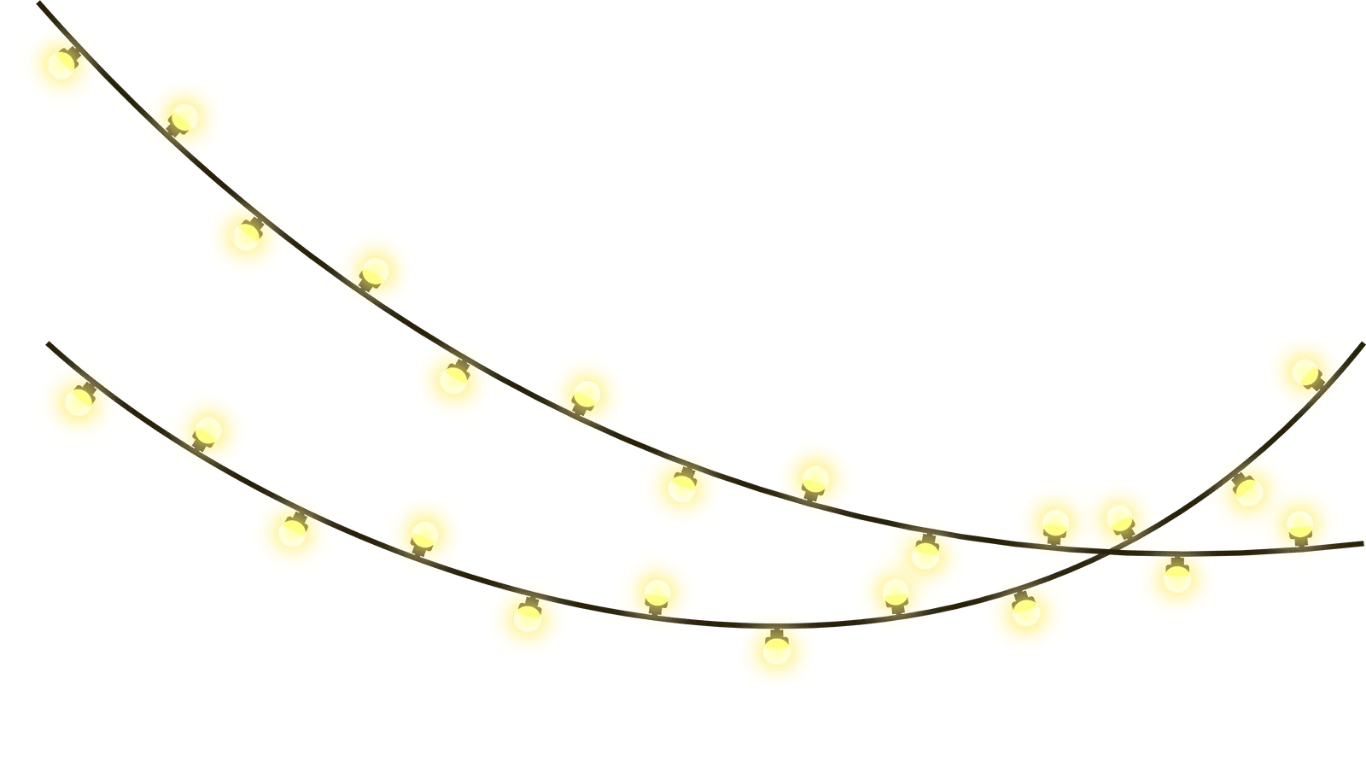
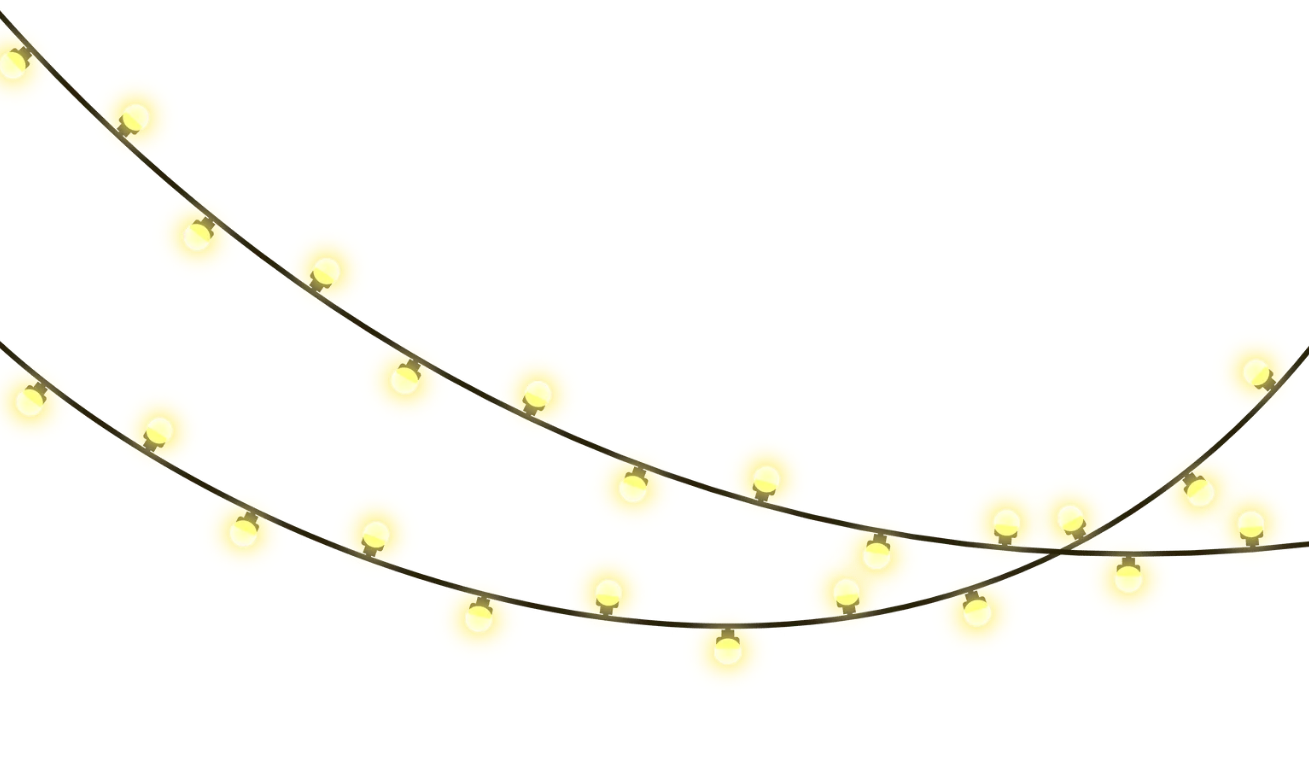
feat: sección itinerario con fondo ovalado y luces en Oliva

diff --git a/app/components/oliva/InvitationOliva.tsx b/app/components/oliva/InvitationOliva.tsx
@@ -44,10 +44,10 @@ const HORA = "4:00 PM";
 const WHATSAPP = "51993092110";
 
 const ITINERARIO = [
-  { file: "icono-anillos.png", hora: "4:00pm", nombre: "Ceremonia", Icon: Sparkles },
-  { file: "icono-copas.png", hora: "4:30pm", nombre: "Brindis", Icon: Wine },
-  { file: "icono-plato.png", hora: "5:00pm", nombre: "Hora de la comida", Icon: UtensilsCrossed },
-  { file: "icono-baile.png", hora: "6:00pm", nombre: "Baile", Icon: Music },
+  { file: "icono-anillos.png", hora: "4:00PM", nombre: "Ceremonia", Icon: Sparkles },
+  { file: "icono-copas.png", hora: "4:30PM", nombre: "Brindis", Icon: Wine },
+  { file: "icono-plato.png", hora: "5:00PM", nombre: "Hora de la comida", Icon: UtensilsCrossed },
+  { file: "icono-baile.png", hora: "6:00PM", nombre: "Baile", Icon: Music },
 ];
 
 const COLORES = [
@@ -427,127 +427,131 @@ function InvitadoSection({ demo }: { demo: boolean }) {
   );
 }
 
-// ─── 3. Pasto + separador de flores ──────────────────────────────────────────
+// ─── 3. Pasto (tres franjas seguidas) ────────────────────────────────────────
 
 function GrassSection({ photosPath }: { photosPath: string }) {
   return (
-    <section aria-hidden="true" style={{ position: "relative", background: "#3c6028" }}>
-      <GardenImg photosPath={photosPath} file="fondo-grass.png" style={{ width: "100%" }} />
-      <GardenImg photosPath={photosPath} file="fondo-grass.png" style={{ width: "100%" }} />
-      {/* El separador va sobre la unión de los dos pastos. */}
-      <GardenImg
-        photosPath={photosPath}
-        file="separador-flores.png"
-        style={{
-          position: "absolute",
-          left: 0,
-          top: "50%",
-          transform: "translateY(-50%)",
-          width: "100%",
-          zIndex: 1,
-        }}
-      />
+    <section aria-hidden="true" style={{ background: "#3c6028" }}>
+      {/* La última fila de fondo-grass.png es clara (#a1b398) y marcaba una
+          línea en cada unión: se recortan 2px de cada franja. */}
+      {[0, 1, 2].map((i) => (
+        <div key={i} style={{ overflow: "hidden" }}>
+          <GardenImg
+            photosPath={photosPath}
+            file="fondo-grass.png"
+            style={{ width: "100%", marginBottom: -2 }}
+          />
+        </div>
+      ))}
     </section>
   );
 }
 
 // ─── 4. Itinerario ───────────────────────────────────────────────────────────
+// itinerario-fondo-luces.png (425×873) es un óvalo beige con la guirnalda ya
+// dibujada. El óvalo va del ~12% al 100% del alto y las luces lo cruzan entre
+// el 11% y el 24%, por eso el título va debajo de ellas. Los porcentajes del
+// título y de la lista están medidos sobre ese PNG: si se cambia, reajustar.
 
 function ItinerarioSection({ photosPath }: { photosPath: string }) {
   return (
-    <section style={{ position: "relative", background: BG, padding: "8px 24px 56px" }}>
-      {/* Borde ondulado sobre el pasto. */}
-      <svg
-        viewBox="0 0 1200 60"
-        preserveAspectRatio="none"
-        aria-hidden="true"
-        style={{
-          position: "absolute",
-          left: 0,
-          top: -39,
-          width: "100%",
-          height: 40,
-          display: "block",
-        }}
-      >
-        <path
-          d="M0,30 Q150,0 300,30 Q450,60 600,30 Q750,0 900,30 Q1050,60 1200,30 L1200,60 L0,60 Z"
-          fill={BG}
-        />
-      </svg>
-
-      <Reveal style={{ textAlign: "center" }}>
-        <GardenImg
-          photosPath={photosPath}
-          file="itinerario-luces.png"
-          style={{ width: "80%", maxWidth: 320, margin: "0 auto" }}
-        />
-        <h2
-          style={{
-            fontFamily: TITLE_FONT,
-            fontSize: "clamp(32px, 9vw, 48px)",
-            color: GREEN_DARK,
-            fontWeight: "normal",
-            margin: "4px 0 20px",
-          }}
-        >
-          Itinerario
-        </h2>
-      </Reveal>
-
-      <ol style={{ listStyle: "none", margin: "0 auto", padding: 0, maxWidth: 340 }}>
-        {ITINERARIO.map(({ file, hora, nombre, Icon }, i) => (
-          <li
-            key={file}
+    <section style={{ background: GREEN_DARK, padding: "32px 0 48px" }}>
+      <Reveal>
+        <div style={{ position: "relative", width: "90%", maxWidth: 380, margin: "0 auto" }}>
+          <GardenImg
+            photosPath={photosPath}
+            file="itinerario-fondo-luces.png"
+            style={{ width: "100%", margin: "0 auto" }}
+          />
+          <h2
             style={{
-              borderTop: i === 0 ? "none" : `2px dotted ${GREEN}`,
-              padding: "16px 0",
+              position: "absolute",
+              top: "26%",
+              left: "50%",
+              transform: "translateX(-50%)",
+              margin: 0,
+              fontFamily: CALM_FONT,
+              fontSize: "clamp(28px, 7vw, 40px)",
+              color: GREEN_DARK,
+              fontWeight: "normal",
+              textAlign: "center",
+              whiteSpace: "nowrap",
+              lineHeight: 1,
             }}
           >
-            <Reveal
-              style={{
-                display: "grid",
-                gridTemplateColumns: "1fr 60px 1fr",
-                alignItems: "center",
-                gap: 16,
-              }}
-            >
-              <span
+            Itinerario
+          </h2>
+
+          <ol
+            style={{
+              position: "absolute",
+              top: "34%",
+              bottom: "12%",
+              left: "13%",
+              right: "13%",
+              margin: 0,
+              padding: 0,
+              listStyle: "none",
+              display: "flex",
+              flexDirection: "column",
+            }}
+          >
+            {ITINERARIO.map(({ file, hora, nombre, Icon }, i) => (
+              <li
+                key={file}
                 style={{
-                  fontFamily: TITLE_FONT,
-                  fontSize: "clamp(22px, 6vw, 28px)",
-                  color: GREEN_DARK,
-                  textAlign: "right",
+                  flex: 1,
+                  display: "grid",
+                  gridTemplateColumns: "50px auto 1fr",
+                  alignItems: "center",
+                  columnGap: 10,
+                  borderTop: i === 0 ? "none" : `1px dashed ${GREEN}`,
                 }}
               >
-                {hora}
-              </span>
-              <GardenImg
-                photosPath={photosPath}
-                file={file}
-                alt=""
-                style={{ width: 60, height: 60, objectFit: "contain" }}
-                fallback={
-                  <span
-                    style={{
-                      width: 60,
-                      height: 60,
-                      display: "flex",
-                      alignItems: "center",
-                      justifyContent: "center",
-                    }}
-                  >
-                    <Icon size={40} color={GREEN_DARK} strokeWidth={1.6} aria-hidden="true" />
-                  </span>
-                }
-              />
-              <span style={{ fontFamily: BODY_FONT, fontSize: 15, color: TEXT, lineHeight: 1.3 }}>
-                {nombre}
-              </span>
-            </Reveal>
-          </li>
-        ))}
-      </ol>
+                <GardenImg
+                  photosPath={photosPath}
+                  file={file}
+                  alt=""
+                  style={{ width: 50, height: 50, objectFit: "contain" }}
+                  fallback={
+                    <span
+                      style={{
+                        width: 50,
+                        height: 50,
+                        display: "flex",
+                        alignItems: "center",
+                        justifyContent: "center",
+                      }}
+                    >
+                      <Icon size={32} color={GREEN_DARK} strokeWidth={1.6} aria-hidden="true" />
+                    </span>
+                  }
+                />
+                <span
+                  style={{
+                    fontFamily: CALM_FONT,
+                    fontSize: "clamp(18px, 4.5vw, 22px)",
+                    color: GREEN_DARK,
+                    whiteSpace: "nowrap",
+                  }}
+                >
+                  {hora}
+                </span>
+                <span
+                  style={{
+                    fontFamily: CALM_FONT,
+                    fontSize: "clamp(14px, 3.5vw, 17px)",
+                    color: TEXT,
+                    lineHeight: 1.25,
+                  }}
+                >
+                  {nombre}
+                </span>
+              </li>
+            ))}
+          </ol>
+        </div>
+      </Reveal>
     </section>
   );
 }

diff --git a/CLAUDE.md b/CLAUDE.md
@@ -42,7 +42,7 @@ Negocio de invitaciones digitales. `/` es el catálogo de diseños (fondo verde 
 - Reemplazó por completo al diseño anterior (estilo "Lyanne & Luis", countdown, historia, regalos, subida de fotos): **ya no tiene countdown, subida de fotos ni enlace a la galería** (las rutas `/oliva/galeria` siguen existiendo y `GalleryOliva` sigue importando `MusicFab`/`MUSIC_SRC`). Todo con estilos inline en `InvitationOliva.tsx`; props: `demo`, `photosPath`, `musicSrc`.
 - Paleta: beige `#f5e6c8` (fondo), verde `#2d5a1b` (títulos), verde medio `#4a7c35`, terracota `#c4714a` (botones), texto `#3a2a1a`; `SKY = #108dfb` es el azul muestreado de `fondo-cielo-2.png`. Fuentes: **Perandory** (títulos/nombres; `@font-face` en `globals.css`, solo peso normal, es toda en mayúsculas y su "Ó" se dibuja con el acento inclinado como "Ò"), Playfair Display (subtítulos/etiquetas), DM Sans (textos y campos).
 - **Sin pantalla de entrada** (13 nov 2026): la invitación abre directo; como la música ya no tiene un gesto que la arranque, el FAB queda visible para activarla. Fuente **CalmíusSans High** (`public/fonts/calmiussans-high.otf`, `@font-face` en `globals.css`, const `CALM_FONT`) en portada y "¡Estás invitado!".
-- Secciones: `PortadaSection` (`portada-fondo` + `portada-pareja` al 60%/máx. 260px sobre su borde inferior → "¡Nos casamos!", nombres en mayúsculas con "&" entre hojas SVG, fecha y "Huaral - Lima" —en la demo solo "Lima"— → `portada-casita`, recortada 2px abajo porque su última fila es casi blanca) → `InvitadoSection` (verde `#396125`→`#2d5a1b`, título y filas fecha/hora/dirección en `#f1deb3` con líneas al 50%, un solo botón "Ver en mapa" `#f9a094`) → `fondo-grass` x2 con `separador-flores` sobre la unión → itinerario (borde ondulado SVG, `itinerario-luces`; 4:00 Ceremonia, 4:30 Brindis, 5:00 Comida, 6:00 Baile) → código de vestimenta sobre `fondo-cielo-1` (5 círculos de color + `vestimenta.png`) → Reserva + cierre sobre `fondo-cielo-2` → `cierre-pareja`.
+- Secciones: `PortadaSection` (`portada-fondo` + `portada-pareja` al 60%/máx. 260px sobre su borde inferior → "¡Nos casamos!", nombres en mayúsculas con "&" entre hojas SVG, fecha y "Huaral - Lima" —en la demo solo "Lima"— → `portada-casita`, recortada 2px abajo porque su última fila es casi blanca) → `InvitadoSection` (verde `#396125`→`#2d5a1b`, título y filas fecha/hora/dirección en `#f1deb3` con líneas al 50%, un solo botón "Ver en mapa" `#f9a094`) → `fondo-grass` x3 (13 nov 2026; sin `separador-flores`; cada franja recortada 2px abajo porque la última fila del PNG es clara) → itinerario sobre verde `#2d5a1b` (13 nov 2026: `itinerario-fondo-luces.png`, óvalo beige con la guirnalda incluida, al 90%/máx. 380px; título y 4 filas `[ícono 50px] hora nombre` con línea punteada superpuestos en %, el título al 26% para no pisar las luces; si se cambia el PNG, re-medir; 4:00PM Ceremonia, 4:30PM Brindis, 5:00PM Comida, 6:00PM Baile) → código de vestimenta sobre `fondo-cielo-1` (5 círculos de color + `vestimenta.png`) → Reserva + cierre sobre `fondo-cielo-2` → `cierre-pareja`.
 - **Reserva**: formulario (nombre y asistencia obligatorios, dieta y canción opcionales) que abre `wa.me/51993092110` con el mensaje armado; no guarda nada.
 - **Imágenes**: `GardenImg` prueba `<photosPath>/<archivo>` y, si falla, el mismo archivo en `/oliva-demo/photos/` (la carpeta del cliente está vacía y no hace falta copiar decoraciones). Revisa `naturalWidth` al montar porque un error previo a la hidratación no dispara `onError`. Lista de archivos en `public/oliva-demo/photos/README.txt`. Faltan `icono-copas`, `icono-plato` e `icono-baile`: mientras tanto se ven los íconos lucide `Wine`, `UtensilsCrossed` y `Music`. `portada-pareja.png` venía sin canal alfa (fondo blanco): se recortó el blanco conectado a los bordes; si se re-exporta, que venga transparente.
 - **Música**: el FAB solo aparece si `musicSrc` existe (HEAD al montar). La ruta cliente no tiene `music.mp3` todavía.
